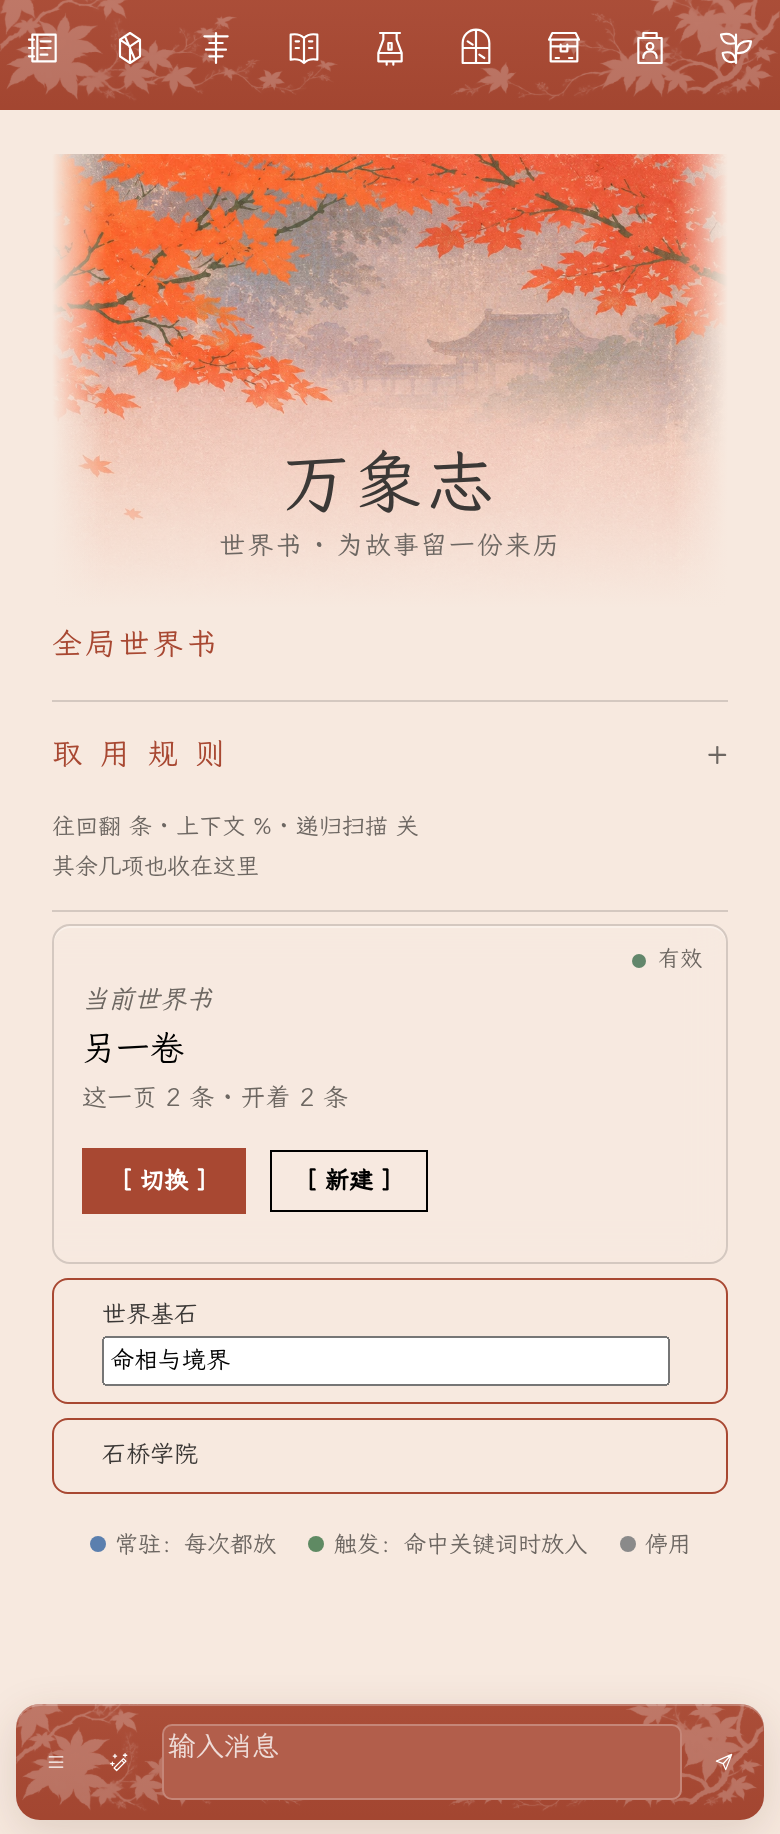
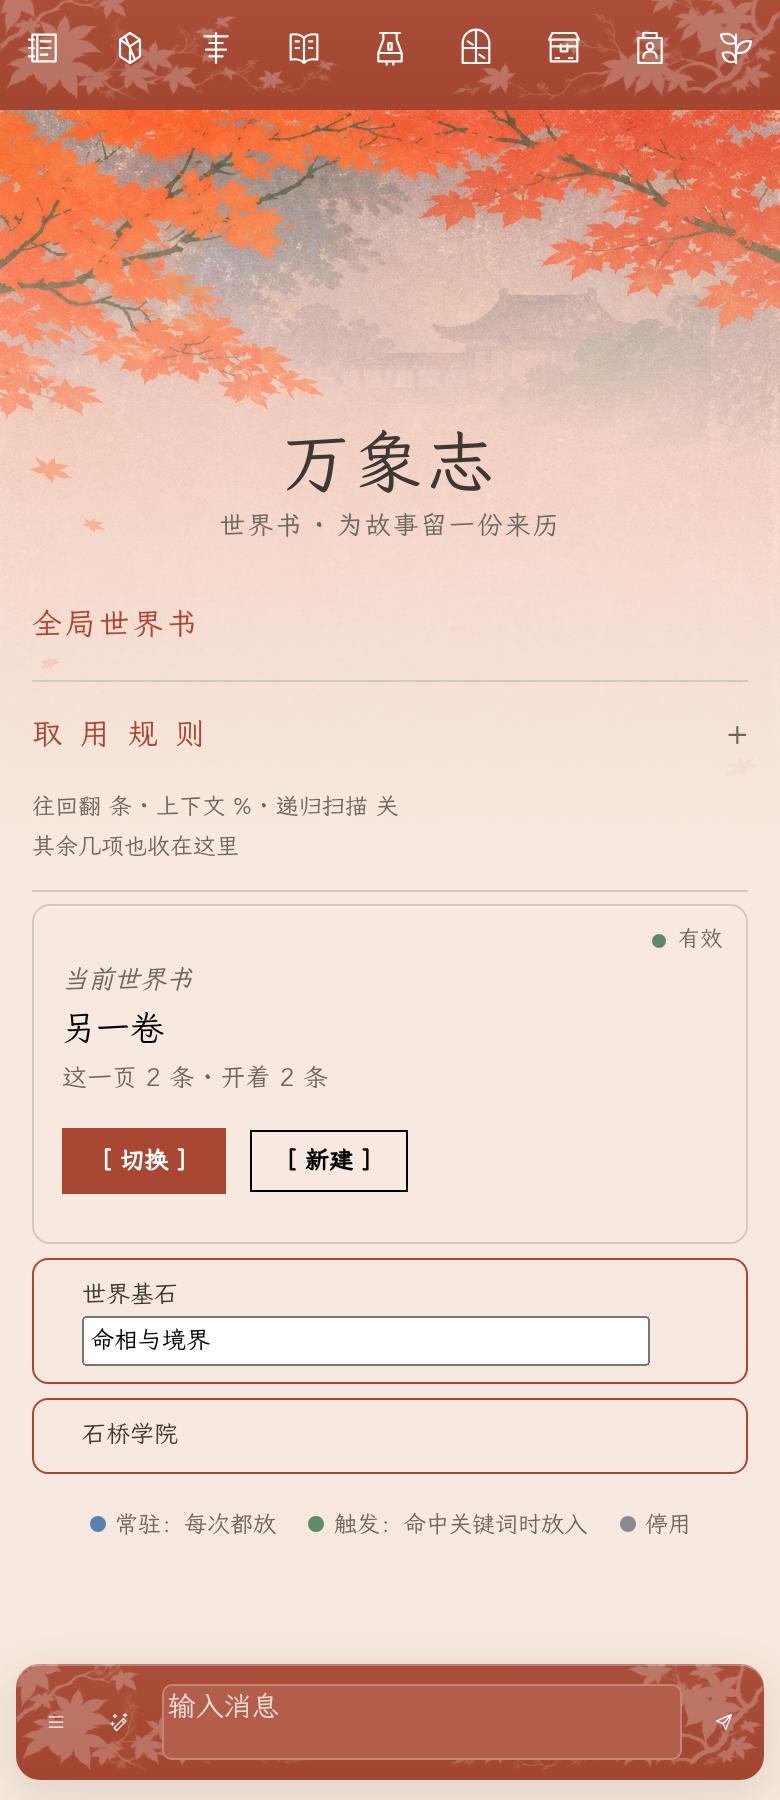
feat: expose shared theme switch in phone appearance settings

diff --git a/tests/fixtures/maple-theme.html b/tests/fixtures/maple-theme.html
@@ -1,5 +1,5 @@
 <!doctype html><html><meta charset="utf-8"><meta name="viewport" content="width=device-width,initial-scale=1"><link rel="stylesheet" href="../../style.css"><style>
-[hidden]{display:none!important}*{box-sizing:border-box}body{margin:0;background:#f7e9df;color:#332b25;font:14px serif}#top-settings-holder{display:flex;justify-content:space-around;height:55px;position:sticky;top:0;z-index:10}#top-settings-holder .drawer-icon{border:0;background:none;font-size:28px;width:35px;height:42px;padding-top:7px}#chat{width:100%;height:calc(100vh - 130px);overflow:auto;display:flex;flex-direction:column}.welcomePanel{width:100%}.mes{width:100%}.mes_text{padding:12px;line-height:1.8}.avatar img{width:40px;height:40px}.mesAvatarWrapper .mes_buttons{display:flex;gap:10px}.mes_button{cursor:pointer;padding:6px}#send_form{height:58px;display:flex;align-items:center;gap:10px}#send_form textarea{flex:1;min-width:0;height:38px;resize:none}#send_form button{padding:6px;background:none;border:0;color:inherit}.page-wrap{padding:10px}.page-wrap[hidden]{display:none}.drawer-content{width:100%;max-width:100%}input,select,textarea{max-width:100%}.menu_button{display:inline-flex;padding:8px;border:1px solid #aaa}#WorldInfo{height:calc(100vh - 130px);overflow:auto}.fake-avatar{width:40px;height:40px;background:#aaa}.test-toolbar{position:fixed;right:0;top:50%;display:none}
+[hidden]{display:none!important}*{box-sizing:border-box}body{margin:0;background:#f7e9df;color:#332b25;font:14px serif}#top-settings-holder{display:flex;justify-content:space-around;height:55px;position:sticky;top:0;z-index:10}#top-settings-holder .drawer-icon{border:0;background:none;font-size:28px;width:35px;height:42px;padding-top:7px}#chat{width:100%;height:calc(100vh - 130px);overflow:auto;display:flex;flex-direction:column}.welcomePanel{width:100%}.mes{width:100%}.mes_text{padding:12px;line-height:1.8}.avatar img{width:40px;height:40px}.mesAvatarWrapper .mes_buttons{display:flex;gap:10px}.mes_button{cursor:pointer;padding:6px}#send_form{height:58px;display:flex;align-items:center;gap:10px}#send_form textarea{flex:1;min-width:0;height:38px;resize:none}#send_form button{padding:6px;background:none;border:0;color:inherit}.page-wrap{padding:0}.page-wrap[hidden]{display:none}.drawer-content{width:100%;max-width:100%}input,select,textarea{max-width:100%}.menu_button{display:inline-flex;padding:8px;border:1px solid #aaa}#WorldInfo{height:calc(100vh - 130px);overflow:auto}.fake-avatar{width:40px;height:40px;background:#aaa}.test-toolbar{position:fixed;right:0;top:50%;display:none}
 </style><body><div id="top-settings-holder"></div><div id="chat"></div><div class="page-wrap" id="page-area" hidden></div><form id="send_form"><button id="options_button" class="fa-solid"></button><button id="extensionsMenuButton" class="fa-solid"></button><textarea id="send_textarea" placeholder="输入消息"></textarea><button id="send_but" class="fa-solid"></button></form><script type="module">
 import { applyBarTheme, ICONS } from '../../src/bar-theme.mjs';
 import { mountChat, unmountChat } from '../../src/bar-chat.mjs';

diff --git a/docs/maple-theme.md b/docs/maple-theme.md
@@ -1,10 +1,10 @@
-# 红叶 · 拾叶集（0.9.0）
+# 红叶 · 拾叶集（0.9.1）
 
-更新扩展并刷新酒馆，在「扩展 → 小吧台」打开「吧台美化」，再选「美化风格 → 红叶 · 拾叶集」。默认的小吧台风格保留，可随时切回；关掉吧台美化会移除两套主题的页面装饰。
+更新扩展并刷新酒馆，在「扩展 → 小吧台」打开「吧台美化」，再选「美化风格 → 红叶 · 拾叶集」。也可以在「小手机 → 设置 → 外观」打开「酒馆页面美化」并选择同一风格；两个入口读写同一配置，立即生效且互相同步。默认的小吧台风格保留，可随时切回；关掉吧台美化会移除两套主题的页面装饰。
 
 底色与辅助色继续在「开场与配色」调整，日夜各一套。上下栏实际底色、按钮和线条跟随辅助色；枝叶月纹是独立遮罩，不把底色锁成红色。图标与输入文字根据辅助色自动选择黑或白。没有自选颜色时，红叶主题使用暖纸朱红／夜林浅铜作为初始配色；已有颜色不会被覆盖。
 
-首页用新绘制的平涂旧印刷红叶背景，落叶向下过渡。九个功能页与聊天标题统一复用首页同一张红叶画作的上部，接文楷标题和轻磨砂卡面；不再使用另外绘制的页顶叶子。页眉在普通文档流里，向下滚动后随内容离开视野，不悬浮或固定：枝序（预设）、汲泉（API）、文理（格式）、万象志（世界书）、时色（界面）、林间（背景）、随行匣（扩展）、拾叶人（人设）、众生枝（角色）。实际预设、世界书、API、人设绑定等仍使用原生控件与数据，不把设计样稿里的假值写进酒馆。
+首页用新绘制的平涂旧印刷红叶背景，落叶向下过渡。九个功能页与聊天标题统一复用首页同一张红叶画作的上部，接文楷标题和轻磨砂卡面；不再使用另外绘制的页顶叶子。画作背景铺在页面外层，包含左右内边距，不再塞进标题盒子；标题区透明。页眉在普通文档流里，向下滚动后随内容离开视野，不悬浮或固定：枝序（预设）、汲泉（API）、文理（格式）、万象志（世界书）、时色（界面）、林间（背景）、随行匣（扩展）、拾叶人（人设）、众生枝（角色）。实际预设、世界书、API、人设绑定等仍使用原生控件与数据，不把设计样稿里的假值写进酒馆。
 
 聊天页只把标题改为「叶间续章」，补同风格页顶装饰；保留现有阅读布局、头像头图来源以及原生正文、编辑、重生成和切换回复功能。主题不改提示词、状态块或聊天记录。卡片内部的状态栏、日记和小手机不在本轮改造范围。
 
@@ -20,10 +20,12 @@ assets/maple/wenkai.woff 来自 [霞鹜文楷官方仓库](https://github.com/lx
 
 主题、聊天、颜色、个人资料、音乐等七个测试文件通过。另有 tests/core.test.mjs 的旧解析断言失败，已用修改前 HEAD 的 core.mjs 和测试文件在隔离目录复现；本次没有修改该解析器。
 
-Chromium 通过 tests/fixtures/maple-theme.html 加载真实美化模块，检查了：两套主题相互切换；聊天正文与编辑按钮节点、原始处理函数保持；世界书选择器身份与选值保持；关闭主题后清理主题节点；首页标题；深色和浅色辅助色上下栏同步；手机宽度无横向溢出。页面无 JS 异常或美化模块警告。另验证首页与世界书下滑 500px 后，标题红叶区域离开视野；功能页复用 home.webp，页眉无 fixed/sticky，首页背景为 local 且不重复。
+Chromium 通过 tests/fixtures/maple-theme.html 加载真实美化模块，检查了：两套主题相互切换；聊天正文与编辑按钮节点、原始处理函数保持；世界书选择器身份与选值保持；关闭主题后清理主题节点；首页标题；深色和浅色辅助色上下栏同步；手机宽度无横向溢出。页面无 JS 异常或美化模块警告。另验证小手机真实设置控件可即时开启/关闭美化并切换默认/红叶风格，设置回调保存配置；首页与世界书下滑 500px 后，标题红叶区域离开视野；功能页复用 home.webp，页眉无 fixed/sticky，首页背景为 local 且不重复。
 
 该页面是宿主结构验证夹具，不能替代真实 TauriTavern 安装环境的全部兼容检查。运行截图：
 
 - [首页](preview/maple-runtime-home.png)
 - [聊天页](preview/maple-runtime-chat.png)
 - [世界书](preview/maple-runtime-world.png)
+
+- [小手机外观设置](preview/maple-phone-settings.png)

diff --git a/README.md b/README.md
@@ -1,8 +1,8 @@
 # Small Bar（小吧台）
 
-## 0.9.0 红叶 · 拾叶集
+## 0.9.1 红叶 · 拾叶集
 
-扩展设置里打开「吧台美化」，在「美化风格」选择「红叶 · 拾叶集」。原来的默认风格仍保留。新增红叶落叶首页、各页统一复用首页红叶（随页面滚动离开视野）、文楷字体和轻磨砂卡面；上下栏的枝叶月纹跟随「开场与配色」中的按钮色，底色也继续可调。聊天页保留现有阅读排版，标题改为「叶间续章」。切回默认或关闭美化会恢复原样。详见 [红叶主题说明](docs/maple-theme.md)。
+扩展设置里打开「吧台美化」，在「美化风格」选择「红叶 · 拾叶集」。小手机里也能从「设置 → 外观」开启美化并切换风格，两处同步。原来的默认风格仍保留。新增红叶落叶首页、各页统一复用首页红叶（随页面滚动离开视野）、文楷字体和轻磨砂卡面；上下栏的枝叶月纹跟随「开场与配色」中的按钮色，底色也继续可调。聊天页保留现有阅读排版，标题改为「叶间续章」。切回默认或关闭美化会恢复原样。详见 [红叶主题说明](docs/maple-theme.md)。
 
 ## 0.8.12 群像卡可以关掉自动更新状态
 
